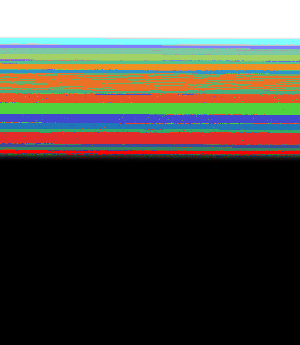
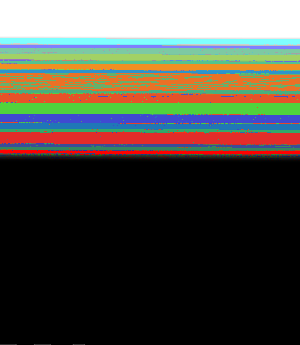
essais tris

diff --git a/src/main.cpp b/src/main.cpp
@@ -411,10 +411,13 @@ float brightness(glm::vec3 color) {
 
 void tri(sil::Image image)
 {
-    std::sort(image.pixels().begin(), image.pixels().end(), [](glm::vec3 const& color1, glm::vec3 const& color2)
+    for (int i{1}; i < image.height() - 2; i++)
     {
-        return brightness(color1) < brightness(color2); // Trie selon la luminosité des couleurs (NB : c'est à vous de coder la fonction `brightness`)
-    });
+        std::sort(image.pixels().begin() + i * image.width(), image.pixels().begin() + 2 * image.width(), [](glm::vec3 const& color1, glm::vec3 const& color2)
+        {
+            return brightness(color1) < brightness(color2); // Trie selon la luminosité des couleurs (NB : c'est à vous de coder la fonction `brightness`)
+        });
+    }
     // TODO: modifier l'image
     image.save("output/pouet_tri.png");
 }
